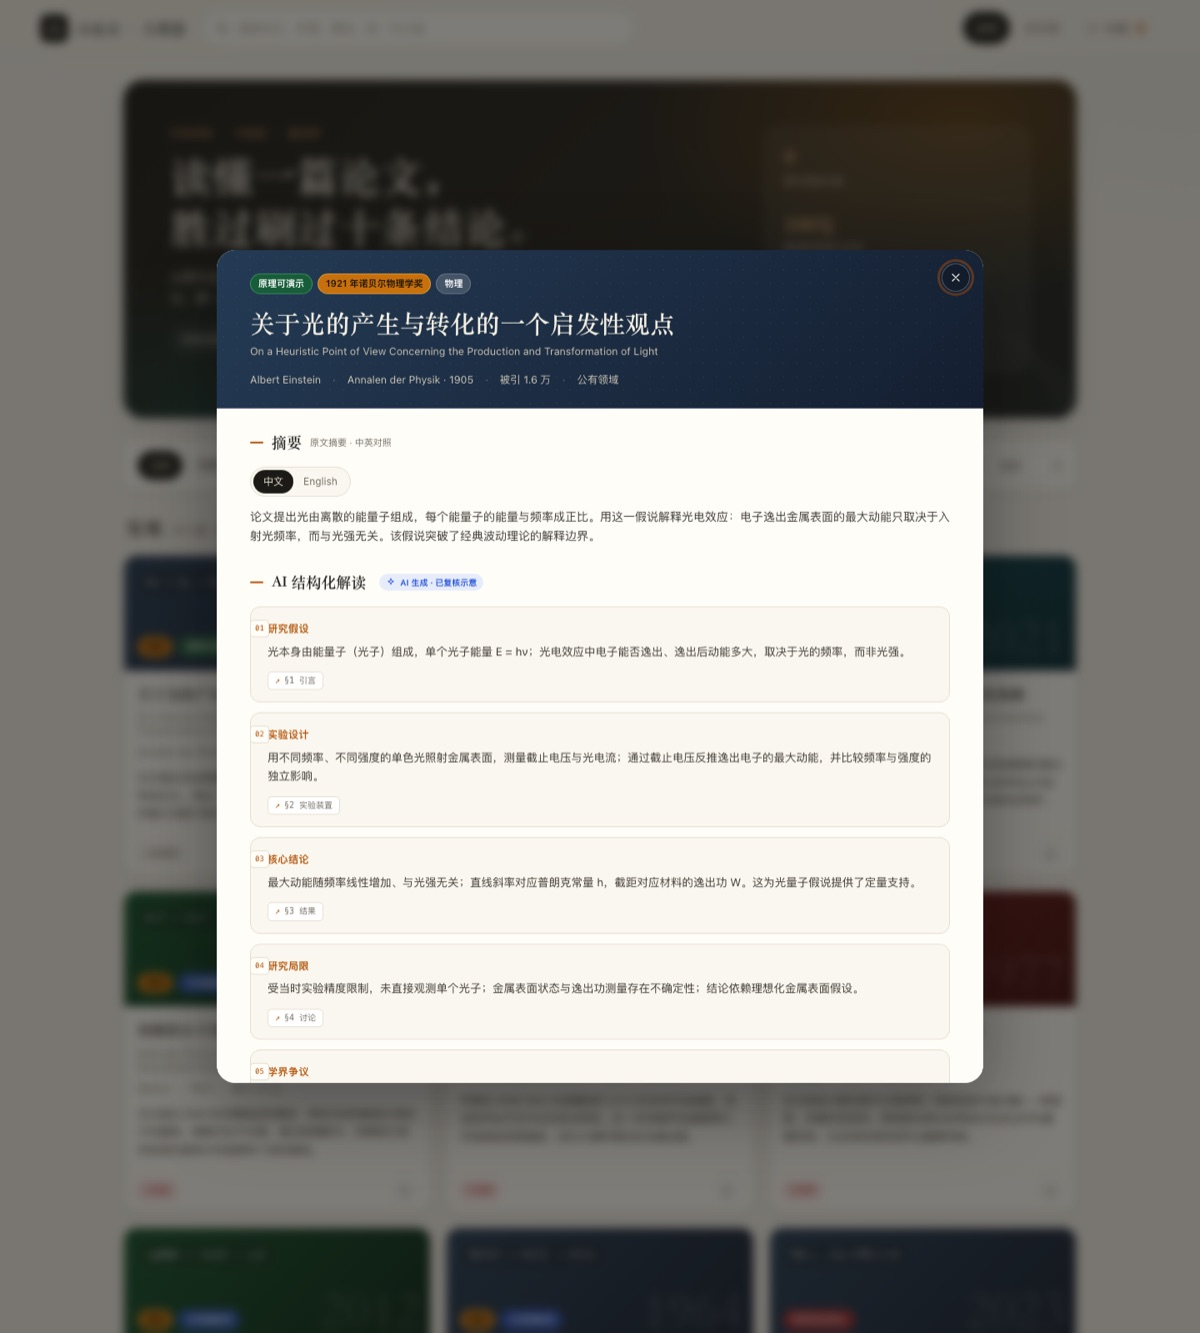
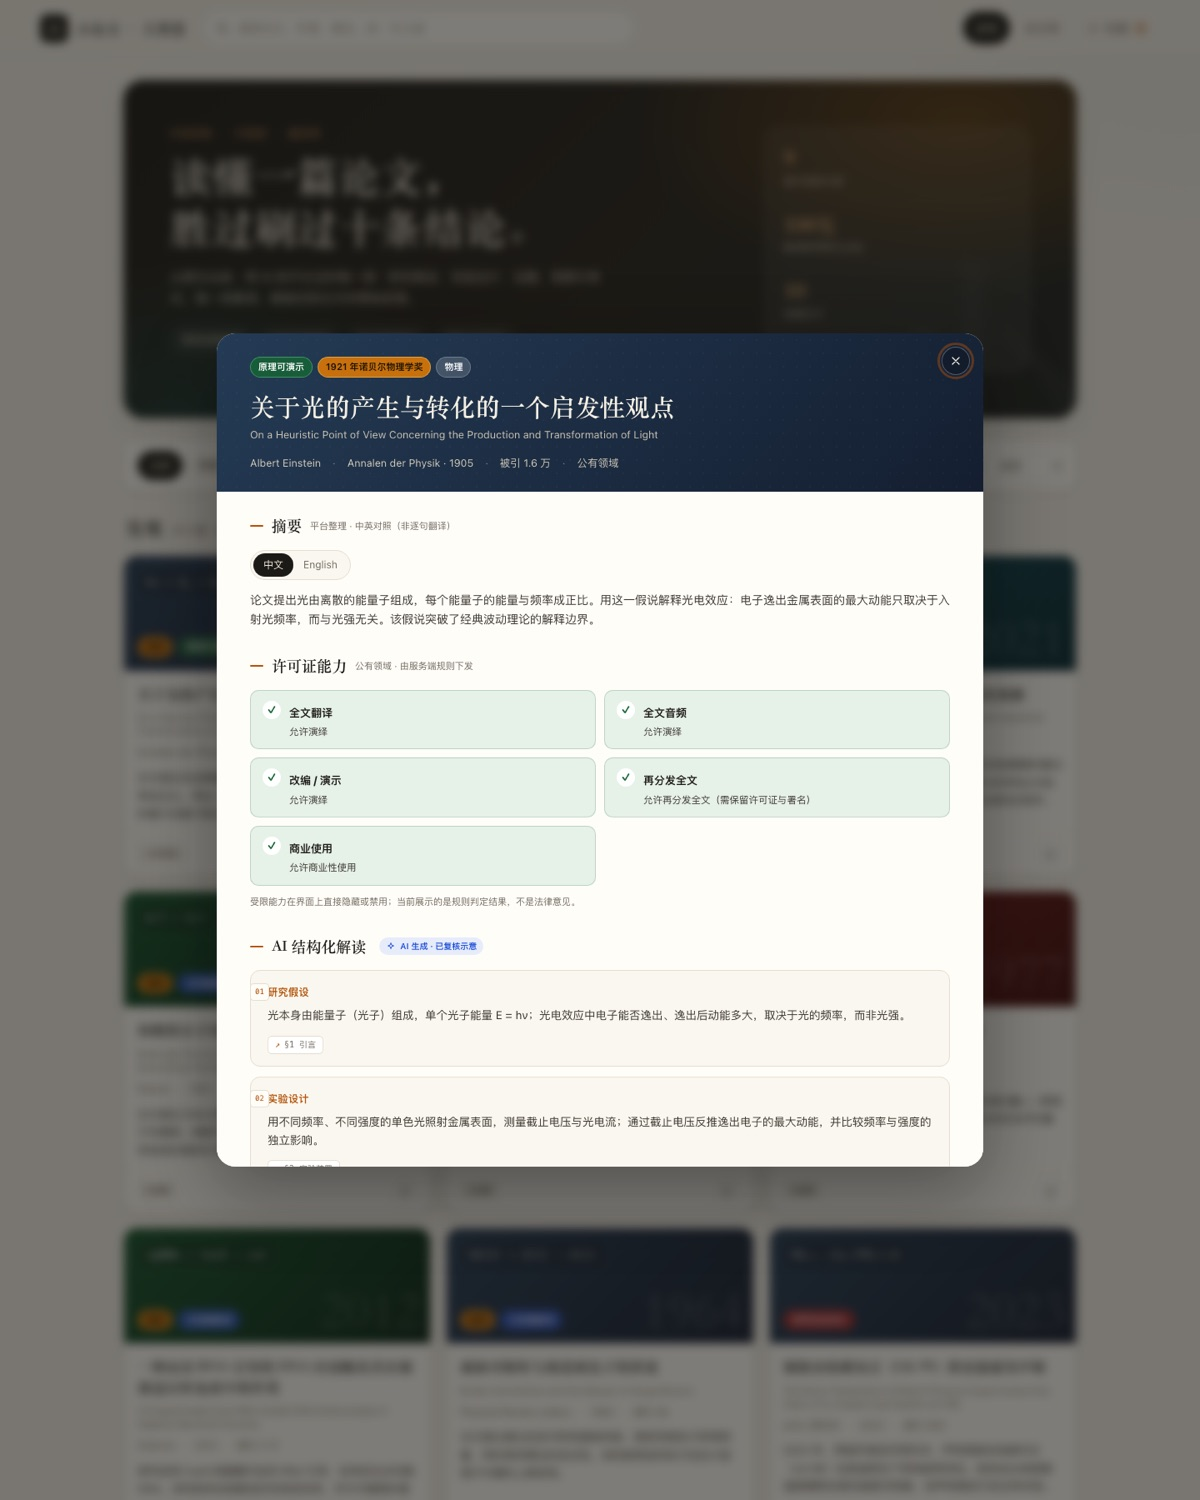
前端接入 API 并按许可证能力渲染
新增 /api/bootstrap 聚合接口；原型改为 API 优先、静态数据兜底；详情页展示全文翻译/音频/改编/再分发/商业使用能力；讨论区在 API 模式下写入 SQLite；补充聚合接口测试与预览图。

Changed region(s): [[0.0925, 0.0923, 0.925, 1.0], [0.0925, 0.0308, 0.8942, 0.0615]]

diff --git a/prototype/js/app.js b/prototype/js/app.js
@@ -5,9 +5,9 @@
 (function () {
   "use strict";
 
-  const DATA = window.DATA;
-  const papers = DATA.papers;
-  const byId = Object.fromEntries(papers.map(p => [p.id, p]));
+  let DATA = window.DATA;
+  let papers = DATA.papers;
+  let byId = Object.fromEntries(papers.map(p => [p.id, p]));
 
   const STORAGE_SAVED = "xlw:saved";
   const STORAGE_COMMENTS = "xlw:comments:";
@@ -26,6 +26,7 @@
     sort: "featured",
     favOnly: false,
     topic: null,
+    apiMode: false,
     saved: new Set(asArray(readJSON(STORAGE_SAVED, [])))
   };
 
@@ -48,6 +49,7 @@
     statConcepts: document.getElementById("statConcepts"),
     overlay: document.getElementById("detailOverlay"),
     detail: document.getElementById("detailPanel"),
+    dataSource: document.getElementById("dataSource"),
     toast: document.getElementById("toast")
   };
 
@@ -71,6 +73,72 @@
 
   function asArray(value) {
     return Array.isArray(value) ? value : [];
+  }
+
+  /* ---------- 数据加载：API 优先，静态数据兜底 ---------- */
+
+  function apiPaperToLocal(p) {
+    const license = p.license || {};
+    return {
+      id: p.id,
+      titleZh: (p.title && p.title.zh) || p.id,
+      titleEn: (p.title && p.title.en) || "",
+      authors: p.authors || "",
+      journal: p.journal || "",
+      year: p.year,
+      citations: p.citations || 0,
+      field: p.field || "综合",
+      nobel: p.nobel || null,
+      tag: p.tag || "logic",
+      formula: p.formula || "",
+      link: p.link || "#",
+      originalLang: p.originalLanguage || "en",
+      license: {
+        spdx: license.code || "",
+        code: license.label || license.code || "未标注",
+        note: license.note || "",
+        deep: Boolean(license.allowed && license.allowed.quote_commentary && license.allowed.quote_commentary.allowed),
+        allowed: license.allowed || null
+      },
+      abstractZh: (p.abstracts && p.abstracts.zh && p.abstracts.zh.text) || "",
+      abstractEn: (p.abstracts && p.abstracts.en && p.abstracts.en.text) || "",
+      interpretation: p.interpretation || null,
+      demo: p.demo || null,
+      thinking: p.thinking || []
+    };
+  }
+
+  function applyData(data) {
+    DATA = data;
+    papers = asArray(DATA.papers);
+    byId = Object.fromEntries(papers.map(p => [p.id, p]));
+  }
+
+  async function loadData() {
+    if (location.protocol === "file:") {
+      return { mode: "static", data: window.DATA };
+    }
+    try {
+      const response = await fetch("/api/bootstrap", {
+        cache: "no-store",
+        headers: { Accept: "application/json" }
+      });
+      if (!response.ok) throw new Error(`HTTP ${response.status}`);
+      const api = await response.json();
+      if (!Array.isArray(api.papers) || !api.papers.length) throw new Error("empty dataset");
+      return {
+        mode: "api",
+        data: {
+          papers: api.papers.map(apiPaperToLocal),
+          concepts: asArray(api.concepts),
+          topics: asArray(api.topics),
+          seedComments: api.comments && typeof api.comments === "object" ? api.comments : {}
+        }
+      };
+    } catch (error) {
+      console.warn("API 不可用，回退到本地静态数据：", error.message);
+      return { mode: "static", data: window.DATA };
+    }
   }
 
   function esc(value) {
@@ -272,8 +340,9 @@
   }
 
   function commentsFor(paperId) {
-    const seeded = asArray(DATA.seedComments[paperId]).map(c => ({ ...c, seeded: true }));
-    const local = asArray(readJSON(STORAGE_COMMENTS + paperId, []));
+    const all = DATA.seedComments || {};
+    const seeded = asArray(all[paperId]).map(c => ({ ...c, seeded: true }));
+    const local = state.apiMode ? [] : asArray(readJSON(STORAGE_COMMENTS + paperId, []));
     return [...seeded, ...local];
   }
 
@@ -312,6 +381,38 @@
 
   function copyIcon() {
     return `<svg viewBox="0 0 24 24" aria-hidden="true"><rect x="9" y="9" width="12" height="12" rx="2"/><path d="M5 15V5a2 2 0 0 1 2-2h10"/></svg>`;
+  }
+
+  function capabilitySection(p) {
+    const allowed = p.license && p.license.allowed;
+    if (!allowed) return "";
+    const items = [
+      ["translate_fulltext", "全文翻译"],
+      ["audio_fulltext", "全文音频"],
+      ["adapt_fulltext", "改编 / 演示"],
+      ["redistribute_fulltext", "再分发全文"],
+      ["commercial_use", "商业使用"]
+    ];
+
+    const cards = items.map(([key, label]) => {
+      const item = allowed[key] || {};
+      const ok = Boolean(item.allowed);
+      return `<div class="cap ${ok ? "is-ok" : "is-no"}">
+        <span class="cap-icon" aria-hidden="true">${ok ? "✓" : "✕"}</span>
+        <div>
+          <strong>${esc(label)}</strong>
+          <p>${esc(item.reason || (ok ? "允许" : "不允许"))}</p>
+          ${ok && item.legalReview ? '<span class="cap-review">需法务复核</span>' : ""}
+        </div>
+      </div>`;
+    }).join("");
+
+    return `
+      <section class="detail-section">
+        <h3>许可证能力 <span class="hint">${esc(p.license.code)} · 由服务端规则下发</span></h3>
+        <div class="cap-grid">${cards}</div>
+        <p class="form-note" style="margin:10px 0 0">受限能力在界面上直接隐藏或禁用；当前展示的是规则判定结果，不是法律意见。</p>
+      </section>`;
   }
 
   function detailHTML(p) {
@@ -390,6 +491,7 @@
       </div>
       <div class="detail-body">
         ${abstractSection}
+        ${capabilitySection(p)}
         ${interpSection}
         ${demoSection}
         ${thinkingSection}
@@ -493,7 +595,20 @@
 
   /* ---------- 评论 ---------- */
 
-  function submitComment() {
+  function refreshCommentArea(p) {
+    const holder = document.createElement("div");
+    setHTML(holder, commentsHTML(p));
+    const newList = holder.querySelector("#commentList");
+    const newForm = holder.querySelector("#commentForm");
+    const oldList = els.detail.querySelector("#commentList");
+    const oldForm = els.detail.querySelector("#commentForm");
+    if (oldList && newList) oldList.replaceWith(newList);
+    if (oldForm && newForm) oldForm.replaceWith(newForm);
+    const count = els.detail.querySelector("#commentCount");
+    if (count) count.textContent = `${commentsFor(p.id).length} 条`;
+  }
+
+  async function submitComment() {
     const paperId = els.detail.dataset.paperId;
     const p = byId[paperId];
     const form = els.detail.querySelector("#commentForm");
@@ -506,27 +621,49 @@
       return;
     }
 
-    const key = STORAGE_COMMENTS + p.id;
-    const local = asArray(readJSON(key, []));
-    local.push({
-      author: "我",
-      time: new Date().toLocaleString("zh-CN", { month: "numeric", day: "numeric", hour: "2-digit", minute: "2-digit" }),
-      body
-    });
-    writeJSON(key, local);
+    if (state.apiMode) {
+      const button = form.querySelector("button[type=submit]");
+      if (button) button.disabled = true;
+      try {
+        const response = await fetch(`/api/papers/${encodeURIComponent(p.id)}/comments`, {
+          method: "POST",
+          headers: { "Content-Type": "application/json" },
+          body: JSON.stringify({ author: "我", body })
+        });
+        if (!response.ok) {
+          const error = await response.json().catch(() => ({}));
+          throw new Error((error.error && error.error.message) || "发布失败");
+        }
+        const listResponse = await fetch(`/api/papers/${encodeURIComponent(p.id)}/comments`, {
+          cache: "no-store"
+        });
+        if (!listResponse.ok) throw new Error("评论列表刷新失败");
+        const listData = await listResponse.json();
+        DATA.seedComments = DATA.seedComments || {};
+        DATA.seedComments[p.id] = asArray(listData.comments).map(comment => ({
+          author: comment.author,
+          time: comment.timeLabel || comment.createdAt,
+          body: comment.body
+        }));
+      } catch (error) {
+        toast(error.message);
+        return;
+      } finally {
+        if (button) button.disabled = false;
+      }
+    } else {
+      const key = STORAGE_COMMENTS + p.id;
+      const local = asArray(readJSON(key, []));
+      local.push({
+        author: "我",
+        time: new Date().toLocaleString("zh-CN", { month: "numeric", day: "numeric", hour: "2-digit", minute: "2-digit" }),
+        body
+      });
+      writeJSON(key, local);
+    }
 
-    const holder = document.createElement("div");
-    setHTML(holder, commentsHTML(p));
-    const newList = holder.querySelector("#commentList");
-    const newForm = holder.querySelector("#commentForm");
-    const oldList = els.detail.querySelector("#commentList");
-    const oldForm = els.detail.querySelector("#commentForm");
-    if (oldList && newList) oldList.replaceWith(newList);
-    if (oldForm && newForm) oldForm.replaceWith(newForm);
-    const count = els.detail.querySelector("#commentCount");
-    if (count) count.textContent = `${commentsFor(p.id).length} 条`;
-
-    toast("已发布（原型为本地存储）");
+    refreshCommentArea(p);
+    toast(state.apiMode ? "已发布" : "已发布（本地存储）");
   }
 
   /* ---------- 事件 ---------- */
@@ -663,9 +800,19 @@
 
   /* ---------- 启动 ---------- */
 
-  function init() {
+  async function init() {
+    const loaded = await loadData();
+    applyData(loaded.data);
+    state.apiMode = loaded.mode === "api";
+
+    if (els.dataSource) {
+      els.dataSource.textContent = state.apiMode
+        ? "数据来源：API + SQLite · 许可证能力由服务端下发"
+        : "数据来源：本地静态示例 · 使用内置许可证提示";
+    }
+
     els.statPapers.textContent = String(papers.length);
-    els.statConcepts.textContent = String(DATA.concepts.length);
+    els.statConcepts.textContent = String(asArray(DATA.concepts).length);
     renderFilters();
     renderConcepts();
     renderTopics();
@@ -675,5 +822,8 @@
     route();
   }
 
-  init();
+  init().catch(error => {
+    console.error(error);
+    setHTML(els.feed, `<div class="empty"><strong>页面初始化失败</strong>请刷新重试，或检查 API 是否可用。</div>`);
+  });
 })();

diff --git a/prototype/css/style.css b/prototype/css/style.css
@@ -399,6 +399,29 @@ main { max-width: 1240px; margin: 0 auto; padding: 28px clamp(16px, 4vw, 48px) 7
 .notice strong { display: block; margin-bottom: 3px; }
 .notice svg { flex: 0 0 auto; width: 18px; height: 18px; margin-top: 2px; }
 
+.cap-grid { display: grid; grid-template-columns: repeat(2, minmax(0, 1fr)); gap: 10px; }
+.cap {
+  display: flex; gap: 10px; padding: 12px 14px;
+  border-radius: 10px; border: 1px solid var(--line); background: var(--surface-2);
+}
+.cap.is-ok { border-color: rgba(22, 101, 52, .2); background: var(--green-soft); }
+.cap.is-no { border-color: rgba(185, 28, 28, .18); background: var(--red-soft); }
+.cap-icon {
+  flex: 0 0 auto; display: grid; place-items: center;
+  width: 22px; height: 22px; border-radius: 50%;
+  background: #fff; font-size: 12px; font-weight: 700;
+}
+.cap.is-ok .cap-icon { color: var(--green); }
+.cap.is-no .cap-icon { color: var(--red); }
+.cap strong { font-size: 13px; }
+.cap p { margin: 2px 0 0; font-size: 11.5px; line-height: 1.5; color: var(--ink-2); }
+.cap-review {
+  display: inline-block; margin-top: 5px; padding: 1px 7px;
+  border-radius: 999px; background: var(--blue-soft); color: var(--blue);
+  font-size: 10px; font-weight: 600;
+}
+#dataSource { color: var(--accent); font-size: 11px; }
+
 .interp-list { display: grid; gap: 12px; counter-reset: interp; }
 .interp-item {
   position: relative; padding: 16px 18px 14px 20px;
@@ -554,6 +577,7 @@ main { max-width: 1240px; margin: 0 auto; padding: 28px clamp(16px, 4vw, 48px) 7
   .sort { margin-left: 0; }
   .detail-panel { max-height: 96vh; border-radius: 16px; }
   .detail-actions .spacer { display: none; }
+  .cap-grid { grid-template-columns: 1fr; }
 }
 
 @media (prefers-reduced-motion: reduce) {

diff --git a/prototype/index.html b/prototype/index.html
@@ -95,6 +95,7 @@
       </div>
       <p class="footer-note">本原型仅用于交互演示。平台只做科普解读，不承担学术仲裁职能；内容为科普简化版本，不用于判定论文真伪。</p>
       <p class="footer-ai">AI 生成内容均已标识 · 原始结论以期刊与作者原文为准</p>
+      <p class="footer-ai" id="dataSource">数据来源：本地静态示例 · 使用内置许可证提示</p>
     </div>
   </footer>
 

diff --git a/README.md b/README.md
@@ -100,8 +100,11 @@ node --test server/api.test.mjs
 
 - **入库**：`server/ingest.mjs` 读取同一份原型数据，用许可证校验器计算每篇论文允许的操作；被拒绝的能力（商业使用、改编等）不会写入可展示字段，并记录到 `ingest_log`。
 - **API**：`server/server.mjs` 暴露 `/api/papers`、`/api/papers/:id`、`/api/concepts`、`/api/topics`、讨论读写与 `/api/license/:code`。
-- **能力下发**：每条内容返回 `license.allowed`，前端据此隐藏翻译、音频、商业入口。
+- **能力下发**：每条内容返回 `license.allowed`，前端据此隐藏翻译、音频、商业入口，并在详情页展示"许可证能力"面板。
+- **前端接入**：由 `server/` 托管时，原型优先从 `/api/bootstrap` 取数并读写讨论；直接打开静态文件或 API 不可用时自动回退到本地示例数据。
 - **存储**：Node 22 内置 SQLite（实验特性），正式环境按技术方案切换 PostgreSQL。
+
+![许可证能力面板：预印本案例](docs/assets/preview-license.jpg)
 
 ```bash
 curl http://127.0.0.1:8787/api/papers/einstein-1905

diff --git a/prototype/README.md b/prototype/README.md
@@ -14,8 +14,10 @@ python3 -m http.server 8080
 
 ## 已实现
 
+- **API 优先**：由 `server/` 同源托管时，自动从 `/api/bootstrap` 取数并按 `license.allowed` 展示能力；直接打开静态文件或 API 不可用时回退到内置数据。
 - 卡片信息流：学科 / 内容类型筛选、搜索、排序、收藏筛选
 - 论文详情：双语摘要、AI 结构化解读（假设 / 设计 / 结论 / 局限 / 争议）、原文出处标识、演示说明、思辨引导
+- **许可证能力面板**：逐项显示全文翻译、音频、改编、再分发、商业使用是否可用及原因
 - 许可证分级：受限文献只展示元数据与摘要，不提供 AI 精读
 - 讨论区：种子评论 + 本地新增评论（localStorage）
 - 收藏：localStorage 持久化

diff --git a/docs/02-technical-architecture.md b/docs/02-technical-architecture.md
@@ -53,7 +53,7 @@ flowchart LR
 | 审核 | 第三方内容安全 API + 人工 | 国内合规必需 |
 | 可观测性 | OpenTelemetry + Sentry | 追踪 AI 调用成本与失败率 |
 
-> **实现状态**：M1 骨架以零依赖方式落地（`server/`，Node 内置 HTTP + SQLite），用于验证数据模型、许可证服务与 API 契约；正式环境仍按上表切换 Next.js 与 PostgreSQL。
+> **实现状态**：M1 骨架以零依赖方式落地（`server/`，Node 内置 HTTP + SQLite），用于验证数据模型、许可证服务与 API 契约；前端原型已改为 API 优先并在详情页展示许可证能力，静态数据仅作兜底。正式环境仍按上表切换 Next.js 与 PostgreSQL。
 
 ## 2. 核心数据模型
 

diff --git a/docs/03-roadmap.md b/docs/03-roadmap.md
@@ -17,6 +17,7 @@
 
 - [x] 论文数据模型 + 许可证过滤（SQLite 入库流水线 + 服务端能力下发，见 `server/`）
 - [x] 同源 JSON API 骨架（论文、概念、专题、讨论、许可证查询）
+- [x] 前端接入 API 并展示许可证能力（API 优先，静态数据兜底）
 - [ ] 诺奖专题 10 篇内容（覆盖物理、化学、生理学或医学）
 - [ ] 论文详情：元数据、双语摘要、AI 结构化解读、原文/DOI 链接
 - [ ] 三类内容标签与"科普简化"提示

diff --git a/server/README.md b/server/README.md
@@ -42,6 +42,7 @@ node server/server.mjs
 | 方法 | 路径 | 说明 |
 | --- | --- | --- |
 | GET | `/api/health` | 健康检查与内容计数 |
+| GET | `/api/bootstrap` | 前端聚合数据：论文、概念、专题、讨论 |
 | GET | `/api/papers?field=&tag=&q=` | 论文列表（不含解读正文） |
 | GET | `/api/papers/:id` | 论文详情、许可证能力、解读、讨论 |
 | GET | `/api/papers/:id/comments` | 讨论列表 |
